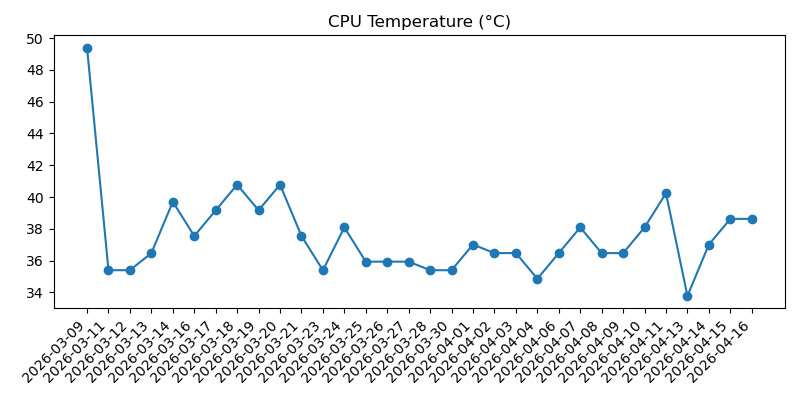
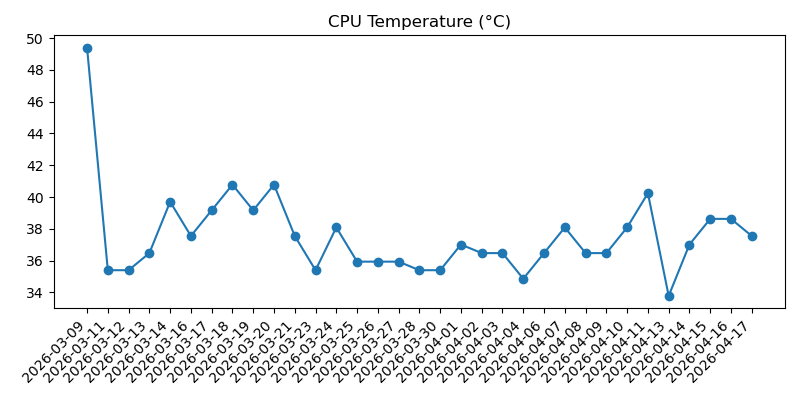
Record daily machine check

Changed region(s): [[0.0625, 0.78, 0.9375, 0.96], [0.1875, 0.45, 0.9688, 0.75], [0.125, 0.51, 0.1875, 0.69]]

diff --git a/2026-04.md b/2026-04.md
@@ -476,3 +476,37 @@
 - Overall: Good
 - Warning: None
 
+## 2026-04-17 13:53:01
+
+### Machine
+- Uptime: up 2 weeks, 2 days, 23 hours, 49 minutes
+- CPU load (1m, 5m, 15m): 0.00, 0.00, 0.00
+- RAM used: 167 MB / 921 MB (18.1%)
+- Disk used (/): 3.5 GB / 28.8 GB (12.2%)
+- Free disk space (/): 24.1 GB
+- CPU temp: 37.6°C
+- Voltage / throttling: OK
+
+### Reachability
+- Internet check (1.1.1.1): Reachable (3.5 ms)
+
+### Weather
+- Madrid:
+  - Condition: Nubes altas
+  - Max temp: 27°C
+  - Min temp: 13°C
+  - Feels like: 20°C
+  - Chance of rain: 0%
+  - Warnings: None reported
+- Barcelona:
+  - Condition: Poco nuboso
+  - Max temp: 21°C
+  - Min temp: 13°C
+  - Feels like: 18°C
+  - Chance of rain: 0%
+  - Warnings: None reported
+
+### Health
+- Overall: Good
+- Warning: None
+
